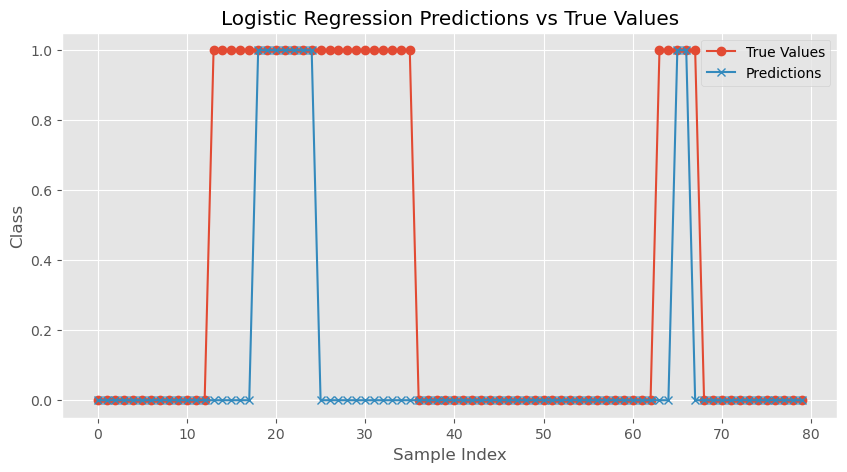
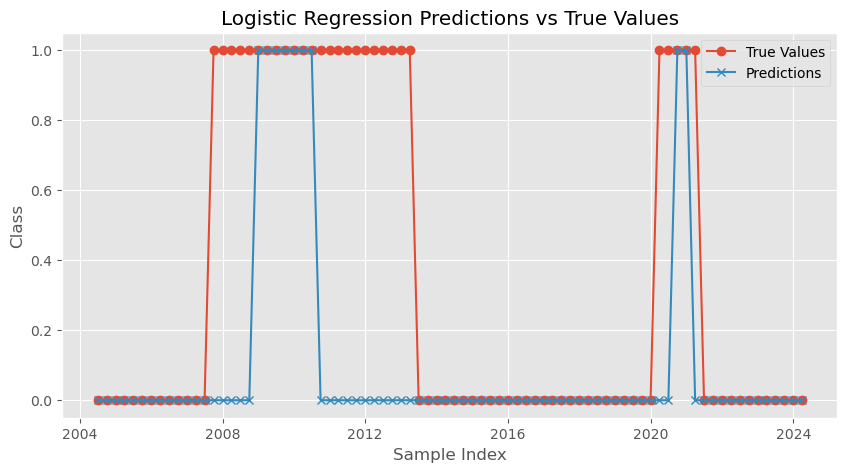
Updates prediction

diff --git a/pca_pipeline.py b/pca_pipeline.py
@@ -24,7 +24,7 @@ Y_VARIABLE = "is_systemic_crisis"
 X_EXCLUSION = ["is_systemic_crisis"]
 
 x_SPLIT, y_SPLIT = get_xy_split(df, X_EXCLUSION, Y_VARIABLE)
-y_SPLIT = y_SPLIT.reset_index(drop=True)
+# y_SPLIT = y_SPLIT.reset_index(drop=True)
 
 X_SCALED = StandardScaler().fit_transform(x_SPLIT)
 
@@ -53,9 +53,13 @@ Y_GOLD = y_SPLIT[FILTER_NUMBER:]
 clf = LogisticRegression(random_state=0).fit(X_TRAIN, Y_TRAIN)
 predictions = clf.predict(X_GOLD)
 
+Y_GOLD = y_SPLIT[FILTER_NUMBER:]
+df_pred = pd.DataFrame(Y_GOLD)
+df_pred["predictions"] = predictions
+
 plt.figure(figsize=(10, 5))
-plt.plot(np.array(Y_GOLD), label='True Values', marker='o')
-plt.plot(predictions, label='Predictions', marker='x')
+plt.plot(df_pred["is_systemic_crisis"], label='True Values', marker='o')
+plt.plot(df_pred["predictions"], label='Predictions', marker='x')
 plt.title('Logistic Regression Predictions vs True Values')
 plt.xlabel('Sample Index')
 plt.ylabel('Class')
